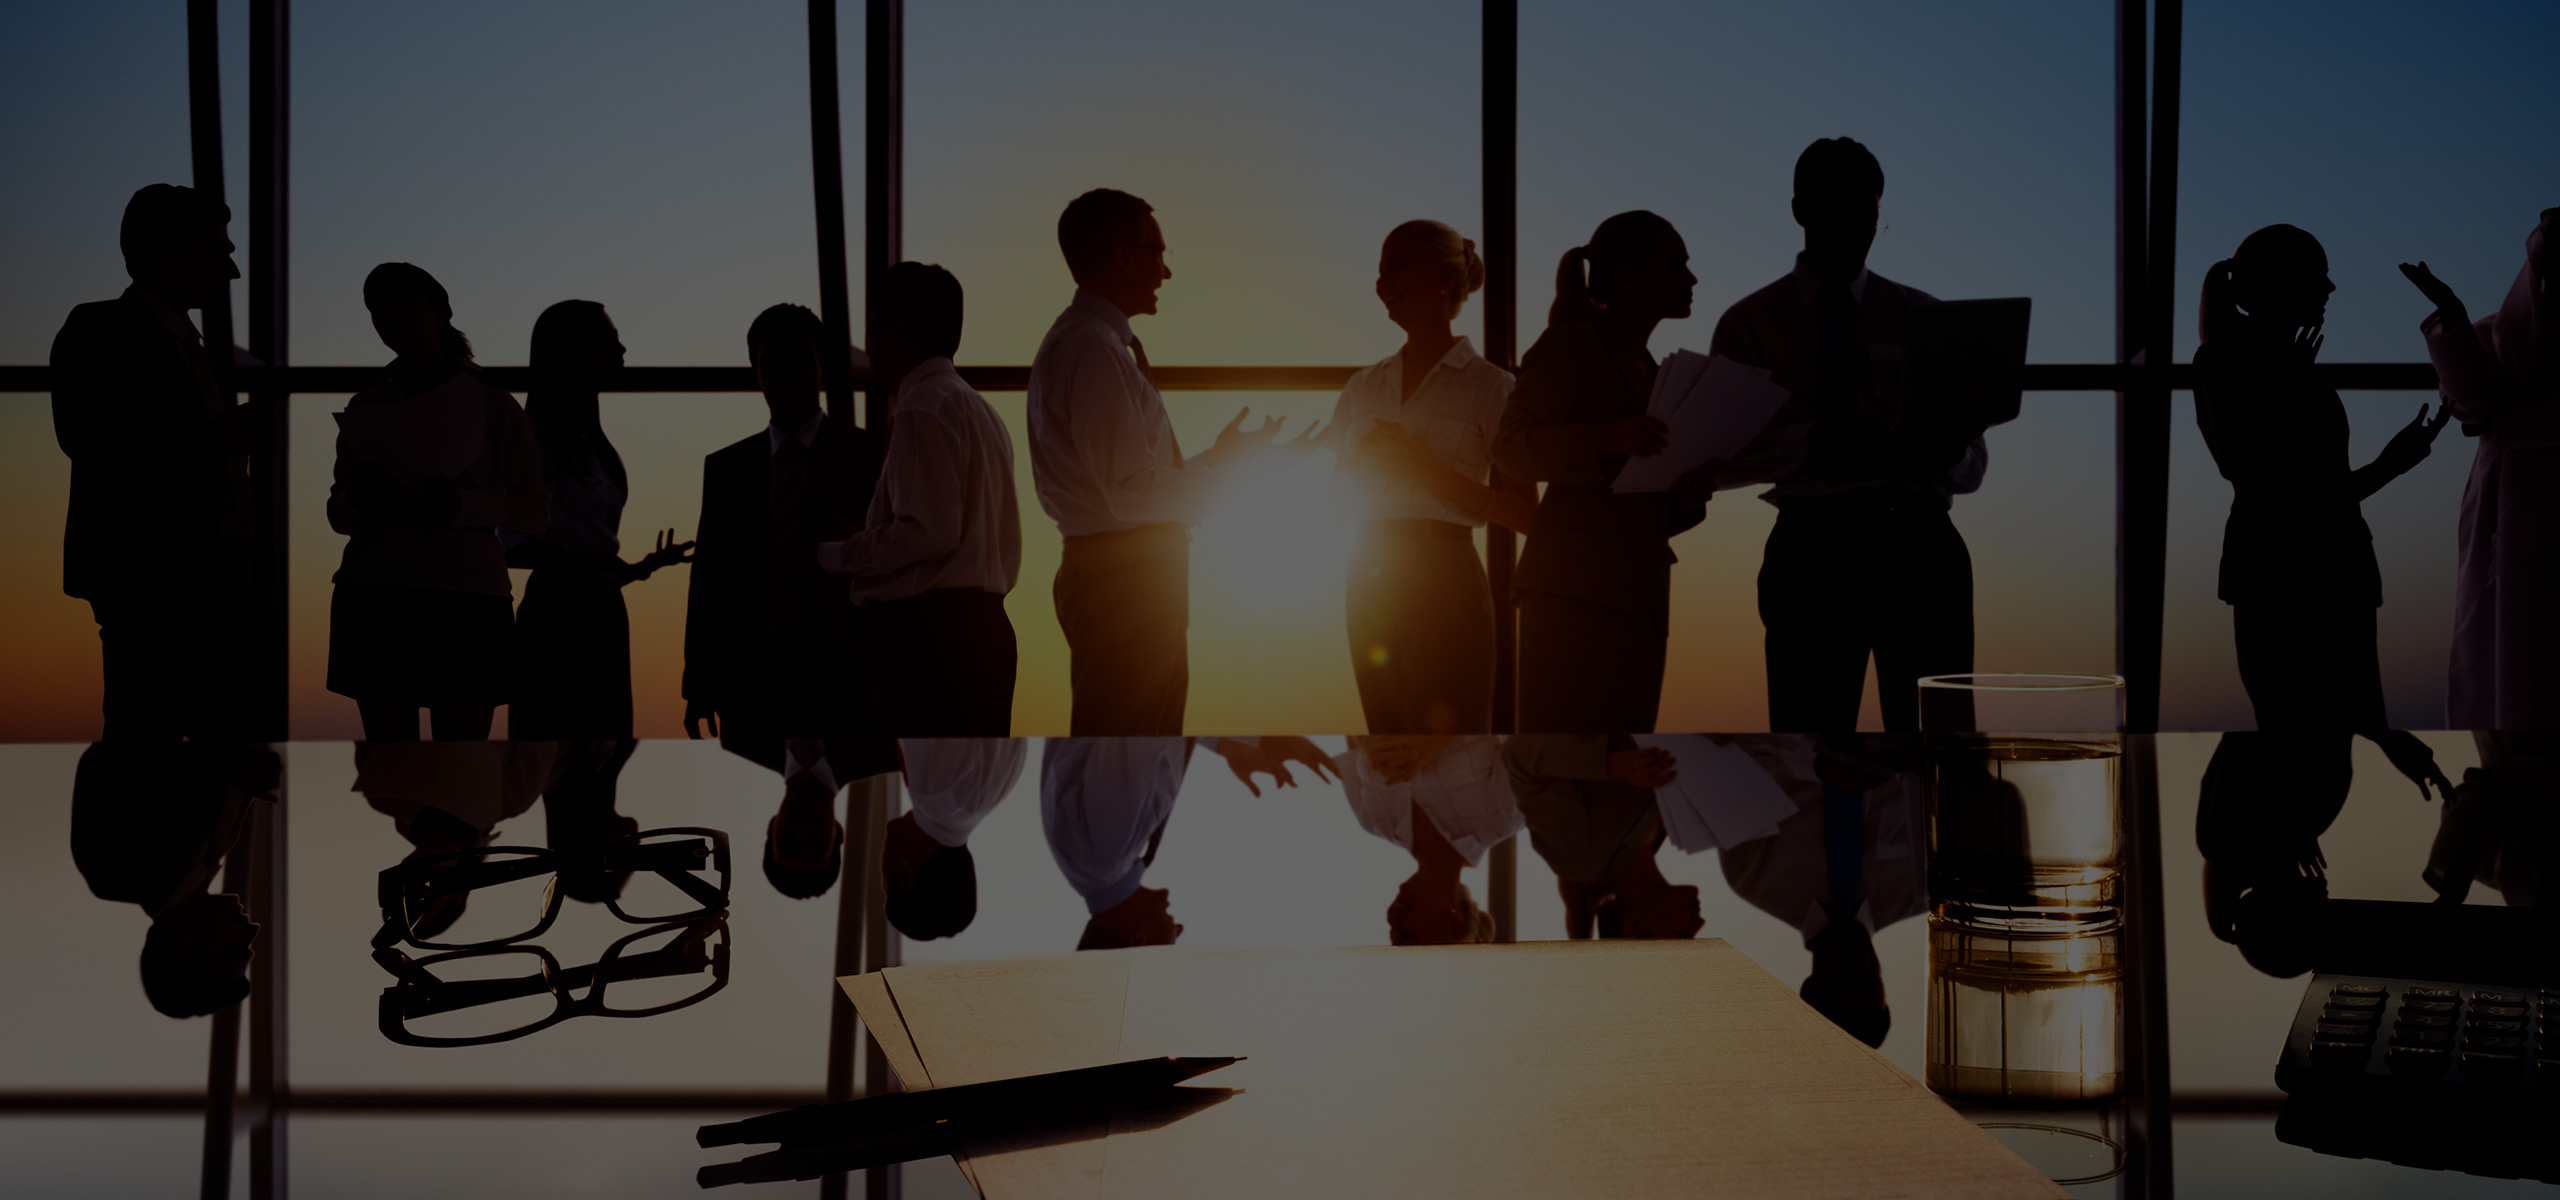
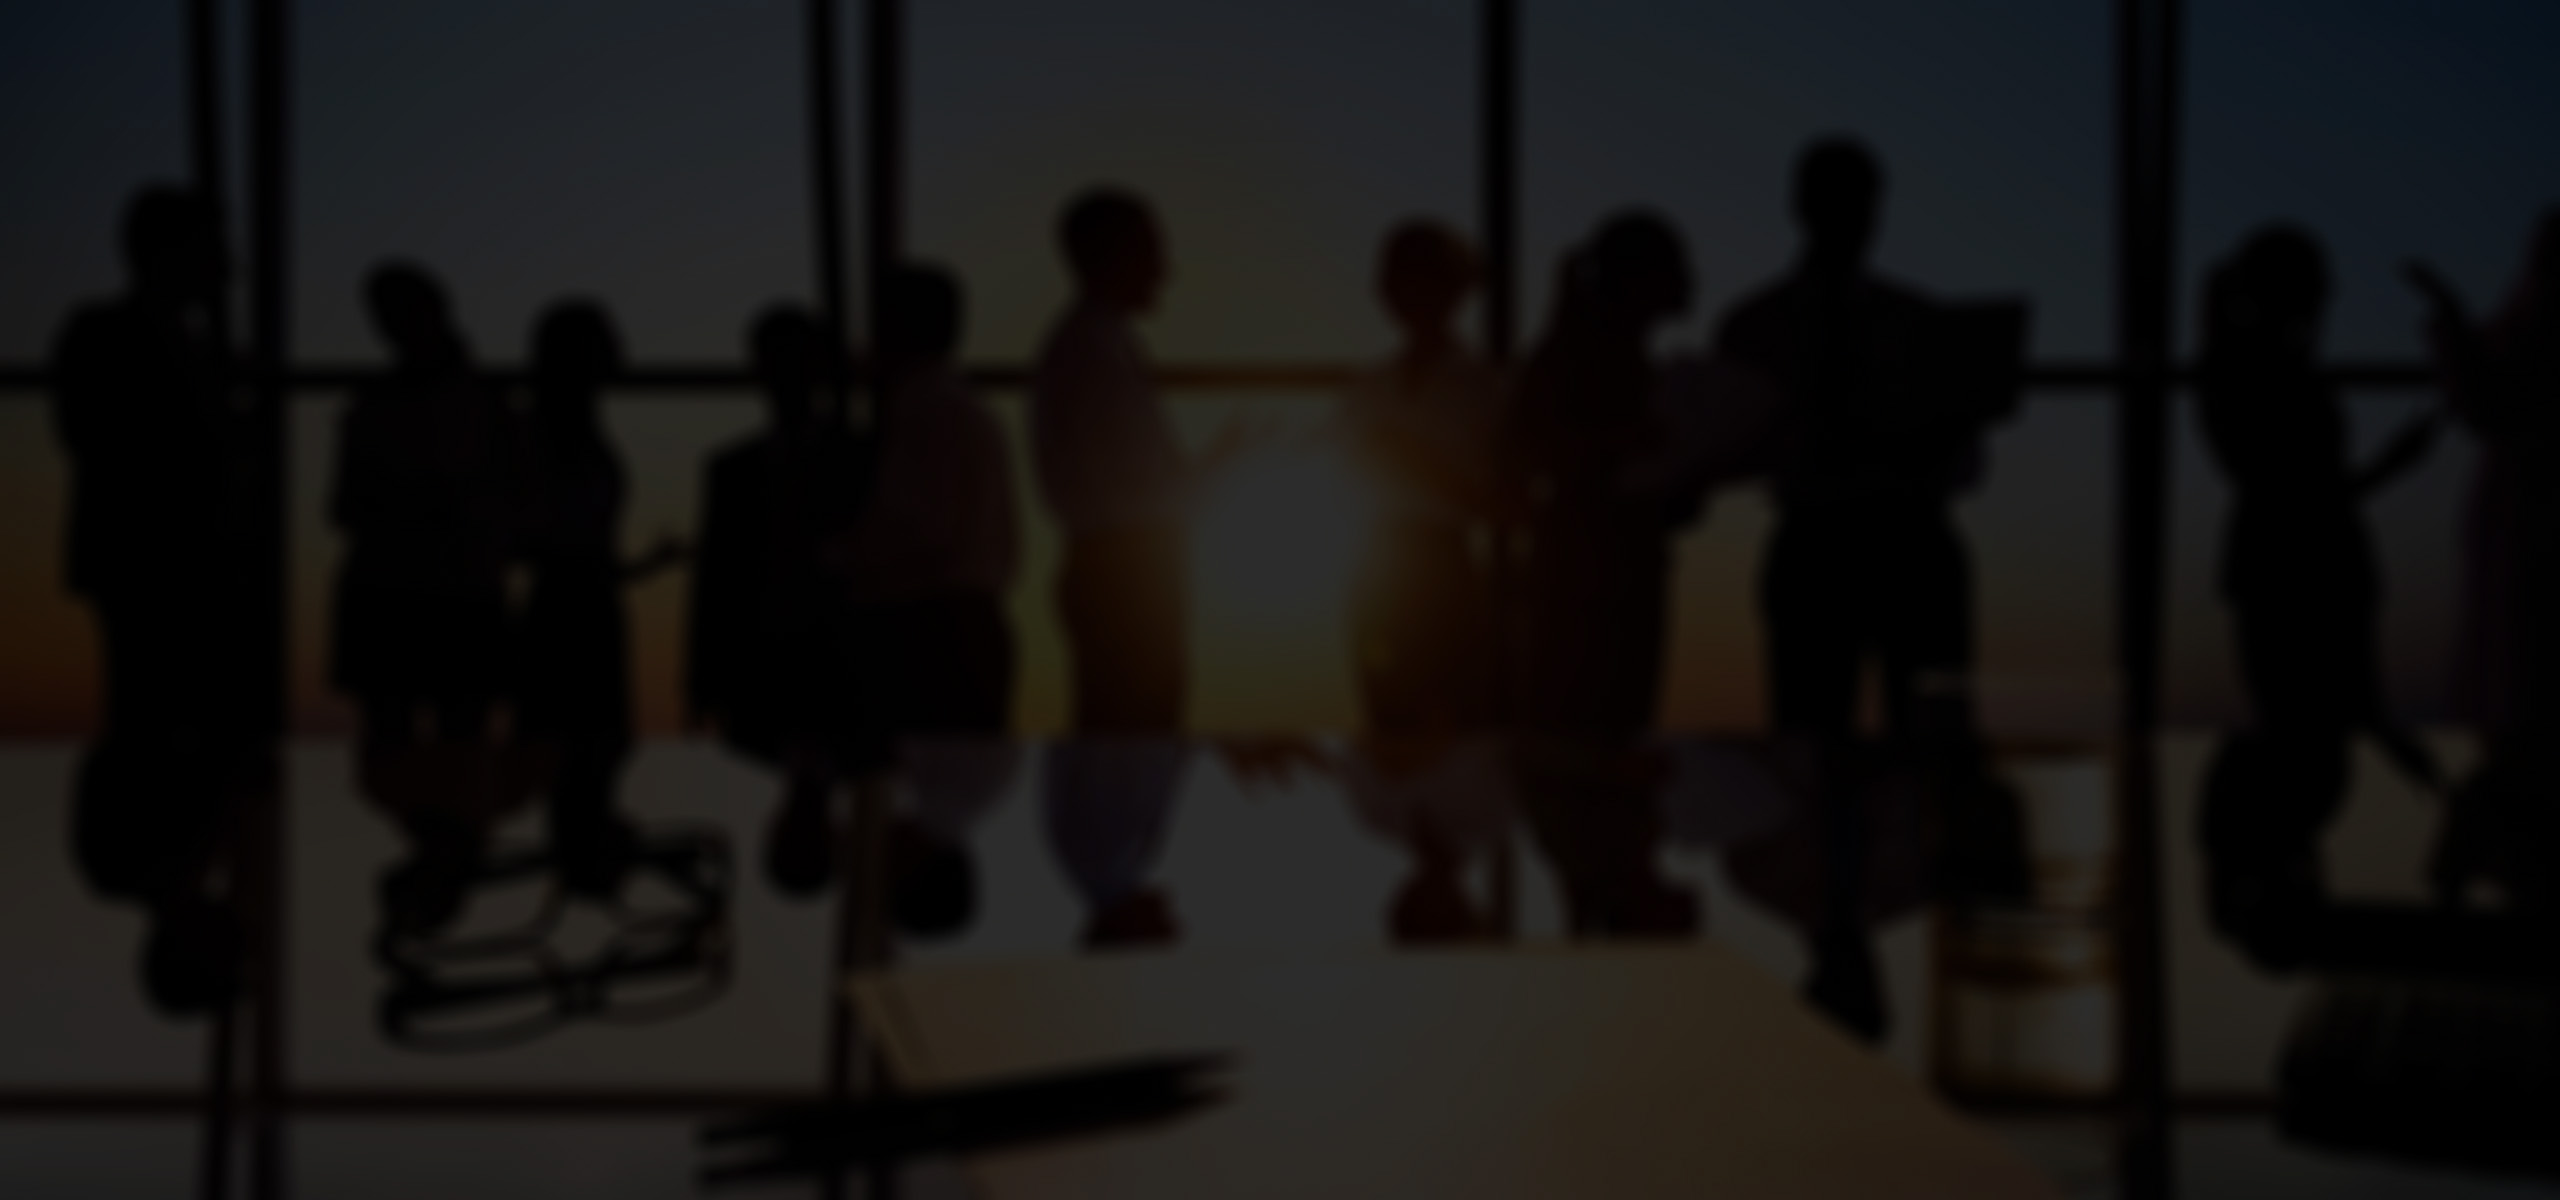
Website Changed

diff --git a/TaskManagementSystem/Content/main.css b/TaskManagementSystem/Content/main.css
@@ -5,6 +5,7 @@ body {
   color: #666;
   background-color: #fff;
   overflow-x: hidden;
+  padding-top: 70px;
 }
 
 h1, h2, h3, h4, h5, h6 {
@@ -23,6 +24,14 @@ h1, h2, h3, h4, h5, h6 {
 }
 .prodtitle1, .carpara1 {
     text-align: left;
+}
+
+.prodtitle1{
+    line-height: 50px;
+}
+
+.carpara1 {
+    margin-right: 100px;
 }
 
 h2 {
@@ -44,7 +53,6 @@ p {
     /* For mobile phones: */
     p {
         font-size: 13px;
-        margin-top: 20px;
     }
 
     #imagehide {
@@ -53,9 +61,8 @@ p {
 
     #sliderpara .carpara1,
     #sliderpara .carpara2 {
-        text-align: center;
-        font-size: 13px;
-        line-height: 19px;
+        font-size: 12.5px;
+        line-height: 18px;
     }
 
     #startcar .logocar {
@@ -68,10 +75,18 @@ p {
         text-align: center;
     }
 
+    .carpara1 {
+        margin-right: 0px;
+    }
+
+    .prodtitle1{
+        line-height: 15px;
+    }
 }
 
 .carpara1, carpara2 {
-    font-size: 15px;
+    font-size: 14px;
+    line-height: 17px;
 }
 
 .parallax {
@@ -137,7 +152,7 @@ a:hover {
 }
 
 section {
-  padding: 90px 0;
+  padding: 40px 0;
 }
 
 .heading {
@@ -173,6 +188,8 @@ section {
 **************************/
 #home {
     background-image: url(../images/slider/2.jpg);
+    background-size: cover;
+    background-position: center; 
     position:relative;
     
 }
@@ -180,12 +197,13 @@ section {
 #home-slider {
   overflow: hidden;
   position: relative;
+  height: 400px;
 }
 
 #home-slider .caption {
   position: absolute;
   margin-top: -250px;
-  top: 50%;
+  top: 15%;
   /*margin-left: 200px;
   margin-right: 200px;*/
   left: 0;
@@ -212,23 +230,16 @@ section {
 }
 
 .prodcar {
-    width: 100%;
-    height: 100%;
+    width: 70%;
+    height: 70%;
     position: relative;
-}
-
-.logocar {
-    width: 20%;
-    height: 20%;
-    position: relative;
+    float:right;
 }
 
 .carousel-fade .carousel-inner .item {
   opacity: 0;
   -webkit-transition-property: opacity;
   transition-property: opacity;
-  background-repeat: no-repeat;
-  background-size: cover;
   height: 2037px;
 }
 
@@ -239,7 +250,7 @@ section {
   bottom: 0;
   left: 0;
   right: 0;
-  background: rgba(0,0,0,.7);
+  background: rgba(0,0,0,.8);
 }
 
 .carousel-fade .carousel-inner .active {
@@ -341,10 +352,7 @@ section {
     .navbar-header {
         padding-bottom: 14px;
         text-align: center;
-    }
-
-    .main-nav {
-        padding-top: 11px;
+        padding-top: 14px;
     }
 }
 

diff --git a/TaskManagementSystem/Scripts/main.js b/TaskManagementSystem/Scripts/main.js
@@ -5,23 +5,6 @@ jQuery(function($) {
 	$(window).load(function(){
 		preloader.remove();
 	});
-
-	//#main-slider
-	var slideHeight = $(window).height();
-	$('#home-slider .item').css('height',slideHeight);
-
-	$(window).resize(function(){'use strict',
-		$('#home-slider .item').css('height',slideHeight);
-	});
-	
-	//Scroll Menu
-	$(window).on('scroll', function(){
-		if( $(window).scrollTop()>slideHeight ){
-			$('.main-nav').addClass('navbar-fixed-top');
-		} else {
-			$('.main-nav').removeClass('navbar-fixed-top');
-		}
-	});
 	
 	// Navigation Scroll
 	$(window).scroll(function(event) {
@@ -52,11 +35,6 @@ jQuery(function($) {
 			}
 		})
 	};
-
-	$('#tohash').on('click', function(){
-		$('html, body').animate({scrollTop: $(this.hash).offset().top - 5}, 1000);
-		return false;
-	});
 	
 	//Initiat WOW JS
 	new WOW().init();

diff --git a/TaskManagementSystem/Scripts/script.js b/TaskManagementSystem/Scripts/script.js
@@ -4,16 +4,6 @@ $(function () {
 		horizontalScrolling: false 
 	});
 
-	$('.main-nav a:not(.dropdown-toggle)').bind('click', function(event) {
-		var $anchor = $(this);
-
-		$('html, body').stop().animate({
-			scrollTop: $($anchor.attr('href')).offset().top
-		}, 1500, 'easeInOutExpo');
-
-		event.preventDefault();
-	});
-
 	$('[data-toggle="tooltip"]').tooltip();
 
     function home_height () {
